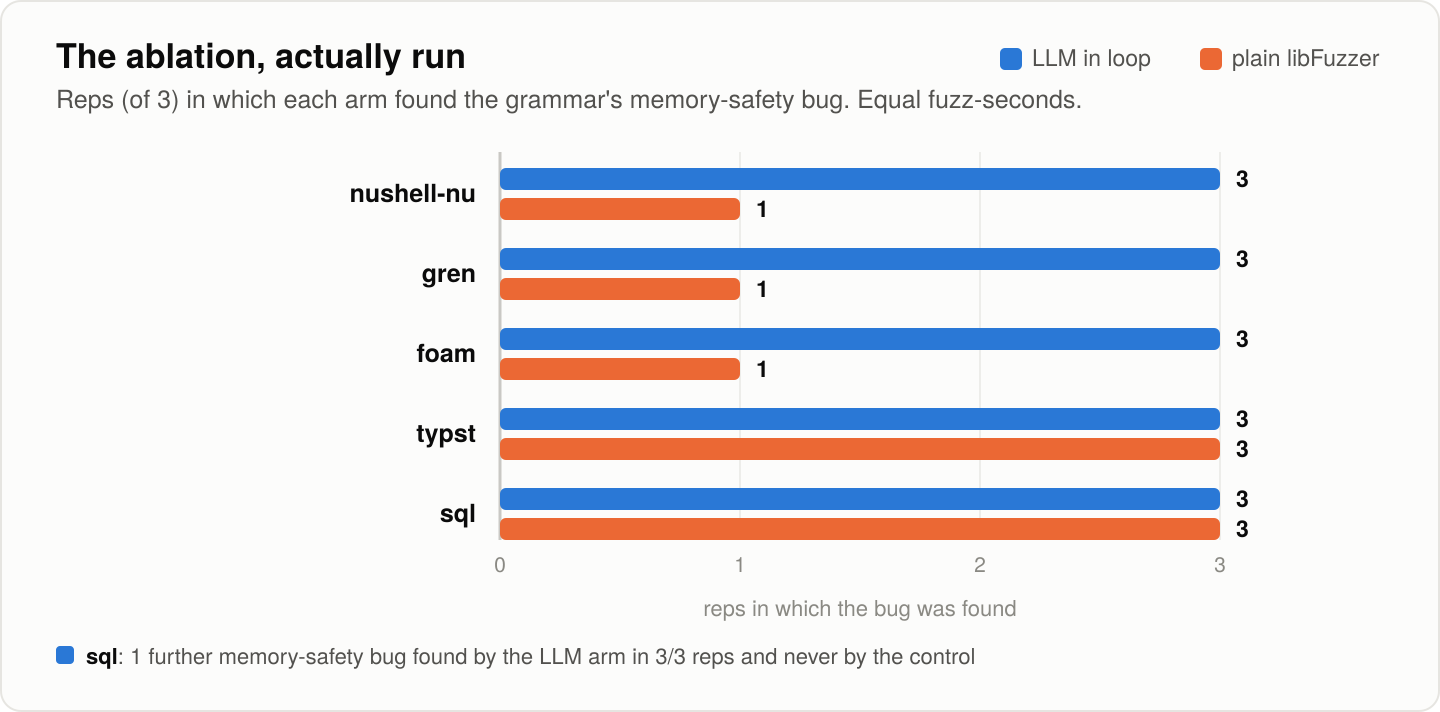
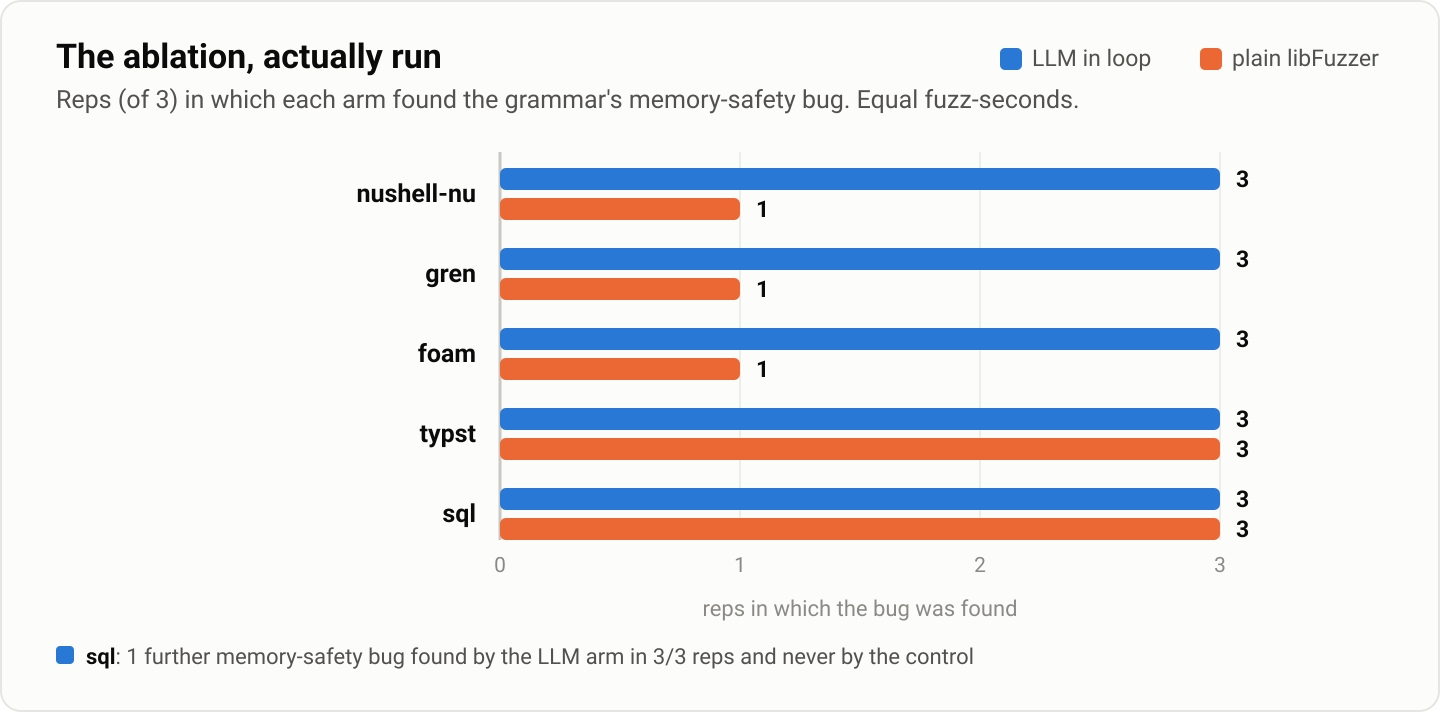
add(blog): table of issue links

diff --git a/comms/blog/main.md b/comms/blog/main.md
@@ -28,6 +28,24 @@ Here we should be precise about the architecture, because it is *not* the Round 
 
 The survey was fruitful. Across **118 grammars** (~24 fuzzing-hours, ~250M executions) it found memory-safety bugs in **9 of them** (10 distinct crashes), all in hand-written `scanner.c`: two global-buffer-overflows ([nushell-nu](https://github.com/nushell/tree-sitter-nu), [fdncred-nu](https://github.com/fdncred/tree-sitter-nu)), a heap-buffer-overflow ([gren](https://github.com/gren-lang/tree-sitter-gren)), two SEGVs ([foam](https://github.com/FoamScience/tree-sitter-foam), [typst](https://github.com/uben0/tree-sitter-typst)), and memory leaks in four more ([sql](https://github.com/DerekStride/tree-sitter-sql), [idris](https://github.com/kayhide/tree-sitter-idris), [liquidsoap](https://github.com/savonet/tree-sitter-liquidsoap), [svelte](https://github.com/Himujjal/tree-sitter-svelte)). A further 12 grammars produced only timeouts and OOMs; that's resource exhaustion, not memory safety, and we discount them since they collapse onto two generic libFuzzer stack signatures. Claude Opus drafted the patches, landing crash-replay-verified fixes on 18 of 31 attempts. We disclosed to maintainers by email; the first upstream fix ([a parse-hang in tree-sitter-kotlin](https://github.com/fwcd/tree-sitter-kotlin/pull/279)) is merged, with pull requests for the memory-safety bugs to follow where maintainers haven't responded.<!-- TODO(Monday): swap in links to Matthew's PR tranche when the list lands -->
 
+The public issues and fix PRs we've filed so far:
+
+| Grammar | Issue | Fix PR | Class |
+|---|---|---|---|
+| [tree-sitter-nu](https://github.com/nushell/tree-sitter-nu) (nushell) | [#257](https://github.com/nushell/tree-sitter-nu/issues/257) — out-of-bounds read (global-buffer-overflow) in the external scanner | [#258](https://github.com/nushell/tree-sitter-nu/pull/258) | Memory safety |
+| [tree-sitter-nu](https://github.com/fdncred/tree-sitter-nu) (fdncred) | — | [#1](https://github.com/fdncred/tree-sitter-nu/pull/1) | Memory safety |
+| [tree-sitter-gren](https://github.com/gren-lang/tree-sitter-gren) | [#20](https://github.com/gren-lang/tree-sitter-gren/issues/20) — heap-buffer-overflow in the external scanner | — | Memory safety |
+| [tree-sitter-foam](https://github.com/FoamScience/tree-sitter-foam) | [#10](https://github.com/FoamScience/tree-sitter-foam/issues/10) — invalid memory access (SIGSEGV) in the external scanner | [#11](https://github.com/FoamScience/tree-sitter-foam/pull/11) | Memory safety |
+| [tree-sitter-idris](https://github.com/kayhide/tree-sitter-idris) | [#8](https://github.com/kayhide/tree-sitter-idris/issues/8) — memory leak in the external scanner | [#9](https://github.com/kayhide/tree-sitter-idris/pull/9) | Memory safety |
+| [tree-sitter-liquidsoap](https://github.com/savonet/tree-sitter-liquidsoap) | [#5](https://github.com/savonet/tree-sitter-liquidsoap/issues/5) — memory leak in the external scanner | — | Memory safety |
+| [tree-sitter-glimmer-typescript](https://github.com/ember-tooling/tree-sitter-glimmer-typescript) | [#15](https://github.com/ember-tooling/tree-sitter-glimmer-typescript/issues/15) — pathological parse time in the external scanner | — | Denial of service |
+| [tree-sitter-earthfile](https://github.com/glehmann/tree-sitter-earthfile) | [#27](https://github.com/glehmann/tree-sitter-earthfile/issues/27) — pathological parse time in the external scanner | [#28](https://github.com/glehmann/tree-sitter-earthfile/pull/28) | Denial of service |
+| [tree-sitter-sourcepawn](https://github.com/nilshelmig/tree-sitter-sourcepawn) | [#33](https://github.com/nilshelmig/tree-sitter-sourcepawn/issues/33) — pathological parse time in the external scanner | [#34](https://github.com/nilshelmig/tree-sitter-sourcepawn/pull/34) | Denial of service |
+| [tree-sitter-qmljs](https://github.com/yuja/tree-sitter-qmljs) | [#32](https://github.com/yuja/tree-sitter-qmljs/issues/32) — pathological parse time in the external scanner | — | Denial of service |
+| [tree-sitter-tera](https://github.com/uncenter/tree-sitter-tera) | [#26](https://github.com/uncenter/tree-sitter-tera/issues/26) — pathological parse time in the external scanner | [#27](https://github.com/uncenter/tree-sitter-tera/pull/27) | Denial of service |
+| [tree-sitter-nginx](https://github.com/opa-oz/tree-sitter-nginx) | [#5](https://github.com/opa-oz/tree-sitter-nginx/issues/5) — unbounded memory in the external scanner | — | Denial of service |
+| [tree-sitter-context](https://github.com/pmazaitis/tree-sitter-context) | [#2](https://github.com/pmazaitis/tree-sitter-context/issues/2) — unbounded memory in the external scanner | — | Denial of service |
+
 ## The control group, and a confession
 
 To measure the LLM's contribution to discovery, we ran a control: plain libFuzzer in [fork mode](https://llvm.org/docs/LibFuzzer.html#fork-mode), same 118 grammars, matched to each grammar's survey walltime. It reproduced 6 of the survey's 10 memory-safety crashes[^overlap] (in sql, svelte, gren, fdncred-nu, idris, nushell-nu), missed 4 (the SEGVs in foam and typst, a leak in liquidsoap, and one of the two sql bugs), and surfaced 8 memory-safety crashes the survey never found. Net tally in equal walltime: **14 memory-safety crashes for the control versus 10 for the survey.**
